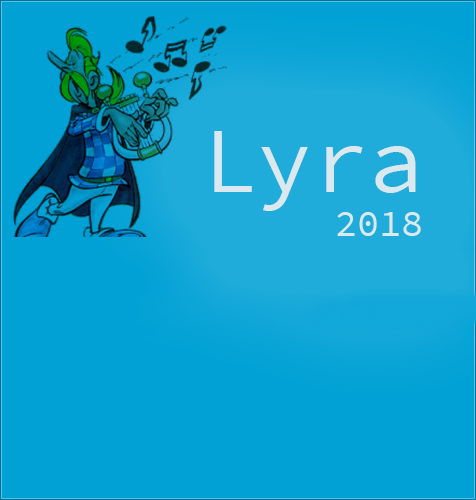
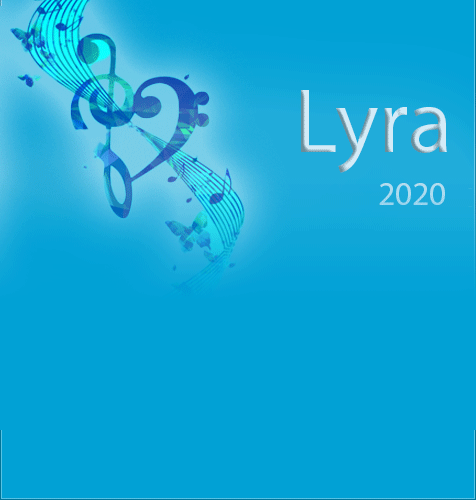
Refresh some graphics

Changed region(s): [[0.0, 0.0, 1.0, 0.84], [0.5, 0.45, 1.0, 0.6], [0.9706, 0.66, 1.0, 0.84]]

diff --git a/LyraShell/Properties/Resources.Designer.cs b/LyraShell/Properties/Resources.Designer.cs
@@ -19,7 +19,7 @@ namespace Lyra2.LyraShell.Properties {
     // class via a tool like ResGen or Visual Studio.
     // To add or remove a member, edit your .ResX file then rerun ResGen
     // with the /str option, or rebuild your VS project.
-    [global::System.CodeDom.Compiler.GeneratedCodeAttribute("System.Resources.Tools.StronglyTypedResourceBuilder", "15.0.0.0")]
+    [global::System.CodeDom.Compiler.GeneratedCodeAttribute("System.Resources.Tools.StronglyTypedResourceBuilder", "16.0.0.0")]
     [global::System.Diagnostics.DebuggerNonUserCodeAttribute()]
     [global::System.Runtime.CompilerServices.CompilerGeneratedAttribute()]
     internal class Resources {
@@ -326,6 +326,16 @@ namespace Lyra2.LyraShell.Properties {
         internal static System.Drawing.Bitmap splash2018 {
             get {
                 object obj = ResourceManager.GetObject("splash2018", resourceCulture);
+                return ((System.Drawing.Bitmap)(obj));
+            }
+        }
+        
+        /// <summary>
+        ///   Looks up a localized resource of type System.Drawing.Bitmap.
+        /// </summary>
+        internal static System.Drawing.Bitmap splash2020 {
+            get {
+                object obj = ResourceManager.GetObject("splash2020", resourceCulture);
                 return ((System.Drawing.Bitmap)(obj));
             }
         }

diff --git a/LyraShell/Start.cs b/LyraShell/Start.cs
@@ -71,7 +71,7 @@ namespace Lyra2.LyraShell
             // Start
             // 
             this.AutoScaleBaseSize = new System.Drawing.Size(6, 14);
-            this.BackgroundImage = global::Lyra2.LyraShell.Properties.Resources.splash2018;
+            this.BackgroundImage = global::Lyra2.LyraShell.Properties.Resources.splash2020;
             this.ClientSize = new System.Drawing.Size(475, 327);
             this.ControlBox = false;
             this.Controls.Add(this.progressBar1);
